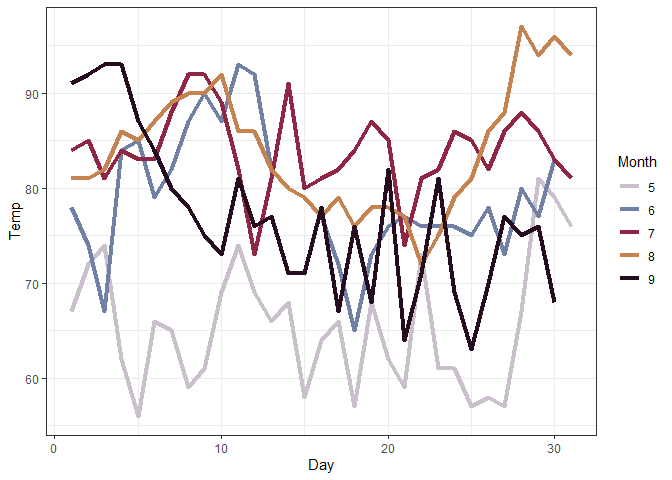
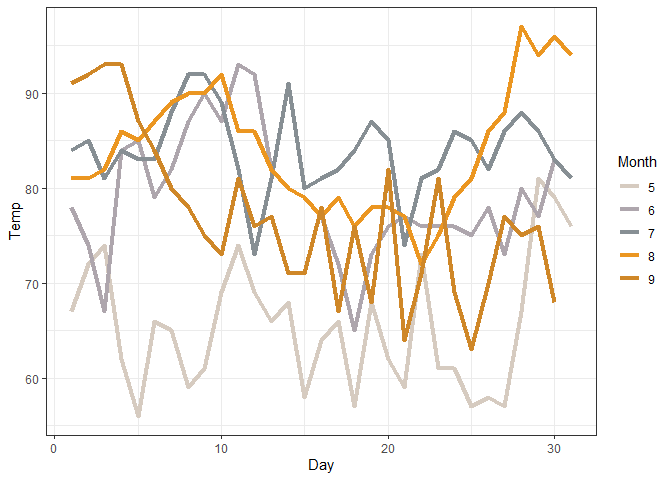
update docs

diff --git a/README.md b/README.md
@@ -1,7 +1,7 @@
 rockthemes
 ================
 
-<img src="man/figures/logo.png" width="160px" align="right" />
+# rockthemes <img src="man/figures/logo.png" width="160px" align="right" />
 
 <!-- badges: start -->
 
@@ -127,46 +127,52 @@ rock_palette("husker")
 ![](man/figures/README-unnamed-chunk-11-1.png)<!-- -->
 
 ``` r
-rock_palette("maiden")
+rock_palette("janelle")
 ```
 
 ![](man/figures/README-unnamed-chunk-12-1.png)<!-- -->
 
 ``` r
-rock_palette("metallica")
+rock_palette("maiden")
 ```
 
 ![](man/figures/README-unnamed-chunk-13-1.png)<!-- -->
 
 ``` r
-rock_palette("miles")
+rock_palette("metallica")
 ```
 
 ![](man/figures/README-unnamed-chunk-14-1.png)<!-- -->
 
 ``` r
-rock_palette("nevermind")
+rock_palette("miles")
 ```
 
 ![](man/figures/README-unnamed-chunk-15-1.png)<!-- -->
 
 ``` r
-rock_palette("oasis")
+rock_palette("nevermind")
 ```
 
 ![](man/figures/README-unnamed-chunk-16-1.png)<!-- -->
 
 ``` r
-rock_palette("swift")
+rock_palette("oasis")
 ```
 
 ![](man/figures/README-unnamed-chunk-17-1.png)<!-- -->
 
 ``` r
-rock_palette("tencc")
+rock_palette("swift")
 ```
 
 ![](man/figures/README-unnamed-chunk-18-1.png)<!-- -->
+
+``` r
+rock_palette("tencc")
+```
+
+![](man/figures/README-unnamed-chunk-19-1.png)<!-- -->
 
 ## ggplot2 use
 
@@ -179,7 +185,7 @@ airquality %>%
     theme_bw()
 ```
 
-![](man/figures/README-unnamed-chunk-19-1.png)<!-- -->
+![](man/figures/README-unnamed-chunk-20-1.png)<!-- -->
 
 ``` r
 airquality %>% 
@@ -190,7 +196,7 @@ airquality %>%
     theme_bw()
 ```
 
-![](man/figures/README-unnamed-chunk-20-1.png)<!-- -->
+![](man/figures/README-unnamed-chunk-21-1.png)<!-- -->
 
 ``` r
 airquality %>% 
@@ -201,7 +207,7 @@ airquality %>%
     theme_bw()
 ```
 
-![](man/figures/README-unnamed-chunk-21-1.png)<!-- -->
+![](man/figures/README-unnamed-chunk-22-1.png)<!-- -->
 
 ``` r
 airquality %>% 
@@ -212,7 +218,7 @@ airquality %>%
     theme_bw()
 ```
 
-![](man/figures/README-unnamed-chunk-22-1.png)<!-- -->
+![](man/figures/README-unnamed-chunk-23-1.png)<!-- -->
 
 ``` r
 airquality %>% 
@@ -223,7 +229,7 @@ airquality %>%
     theme_bw()
 ```
 
-![](man/figures/README-unnamed-chunk-23-1.png)<!-- -->
+![](man/figures/README-unnamed-chunk-24-1.png)<!-- -->
 
 ``` r
 airquality %>% 
@@ -234,7 +240,7 @@ airquality %>%
     theme_bw()
 ```
 
-![](man/figures/README-unnamed-chunk-24-1.png)<!-- -->
+![](man/figures/README-unnamed-chunk-25-1.png)<!-- -->
 
 ``` r
 airquality %>% 
@@ -245,7 +251,7 @@ airquality %>%
     theme_bw()
 ```
 
-![](man/figures/README-unnamed-chunk-25-1.png)<!-- -->
+![](man/figures/README-unnamed-chunk-26-1.png)<!-- -->
 
 ``` r
 airquality %>% 
@@ -256,7 +262,7 @@ airquality %>%
     theme_bw()
 ```
 
-![](man/figures/README-unnamed-chunk-26-1.png)<!-- -->
+![](man/figures/README-unnamed-chunk-27-1.png)<!-- -->
 
 ``` r
 airquality %>% 
@@ -267,7 +273,7 @@ airquality %>%
     theme_bw()
 ```
 
-![](man/figures/README-unnamed-chunk-27-1.png)<!-- -->
+![](man/figures/README-unnamed-chunk-28-1.png)<!-- -->
 
 ``` r
 airquality %>% 
@@ -278,7 +284,7 @@ airquality %>%
     theme_bw()
 ```
 
-![](man/figures/README-unnamed-chunk-28-1.png)<!-- -->
+![](man/figures/README-unnamed-chunk-29-1.png)<!-- -->
 
 ``` r
 airquality %>% 
@@ -289,7 +295,7 @@ airquality %>%
     theme_bw()
 ```
 
-![](man/figures/README-unnamed-chunk-29-1.png)<!-- -->
+![](man/figures/README-unnamed-chunk-30-1.png)<!-- -->
 
 ``` r
 airquality %>% 
@@ -300,7 +306,7 @@ airquality %>%
     theme_bw()
 ```
 
-![](man/figures/README-unnamed-chunk-30-1.png)<!-- -->
+![](man/figures/README-unnamed-chunk-31-1.png)<!-- -->
 
 ``` r
 airquality %>% 
@@ -311,7 +317,7 @@ airquality %>%
     theme_bw()
 ```
 
-![](man/figures/README-unnamed-chunk-31-1.png)<!-- -->
+![](man/figures/README-unnamed-chunk-32-1.png)<!-- -->
 
 ``` r
 airquality %>% 
@@ -322,7 +328,7 @@ airquality %>%
     theme_bw()
 ```
 
-![](man/figures/README-unnamed-chunk-32-1.png)<!-- -->
+![](man/figures/README-unnamed-chunk-33-1.png)<!-- -->
 
 ``` r
 airquality %>% 
@@ -333,7 +339,7 @@ airquality %>%
     theme_bw()
 ```
 
-![](man/figures/README-unnamed-chunk-33-1.png)<!-- -->
+![](man/figures/README-unnamed-chunk-34-1.png)<!-- -->
 
 ``` r
 airquality %>% 
@@ -344,7 +350,7 @@ airquality %>%
     theme_bw()
 ```
 
-![](man/figures/README-unnamed-chunk-34-1.png)<!-- -->
+![](man/figures/README-unnamed-chunk-35-1.png)<!-- -->
 
 ``` r
 airquality %>% 
@@ -355,7 +361,7 @@ airquality %>%
     theme_bw()
 ```
 
-![](man/figures/README-unnamed-chunk-35-1.png)<!-- -->
+![](man/figures/README-unnamed-chunk-36-1.png)<!-- -->
 
 ``` r
 data <- gapminder::gapminder %>% 
@@ -369,7 +375,7 @@ ggplot(data = data, aes(x = year, y = gdpPercap, fill = country)) +
     scale_fill_taylor()
 ```
 
-![](man/figures/README-unnamed-chunk-36-1.png)<!-- -->
+![](man/figures/README-unnamed-chunk-37-1.png)<!-- -->
 
 ``` r
     
@@ -380,7 +386,7 @@ ggplot(data = data, aes(x = year, y = gdpPercap, fill = country)) +
     scale_fill_tencc()
 ```
 
-![](man/figures/README-unnamed-chunk-36-2.png)<!-- -->
+![](man/figures/README-unnamed-chunk-37-2.png)<!-- -->
 
 ``` r
     
@@ -391,7 +397,7 @@ ggplot(data = data, aes(x = year, y = gdpPercap, fill = country)) +
     scale_fill_husker()
 ```
 
-![](man/figures/README-unnamed-chunk-36-3.png)<!-- -->
+![](man/figures/README-unnamed-chunk-37-3.png)<!-- -->
 
 ``` r
     
@@ -402,7 +408,7 @@ ggplot(data = data, aes(x = year, y = gdpPercap, fill = country)) +
     scale_fill_californication()
 ```
 
-![](man/figures/README-unnamed-chunk-36-4.png)<!-- -->
+![](man/figures/README-unnamed-chunk-37-4.png)<!-- -->
 
 ``` r
     
@@ -413,4 +419,4 @@ ggplot(data = data, aes(x = year, y = gdpPercap, fill = country)) +
     scale_fill_miles()
 ```
 
-![](man/figures/README-unnamed-chunk-36-5.png)<!-- -->
+![](man/figures/README-unnamed-chunk-37-5.png)<!-- -->
